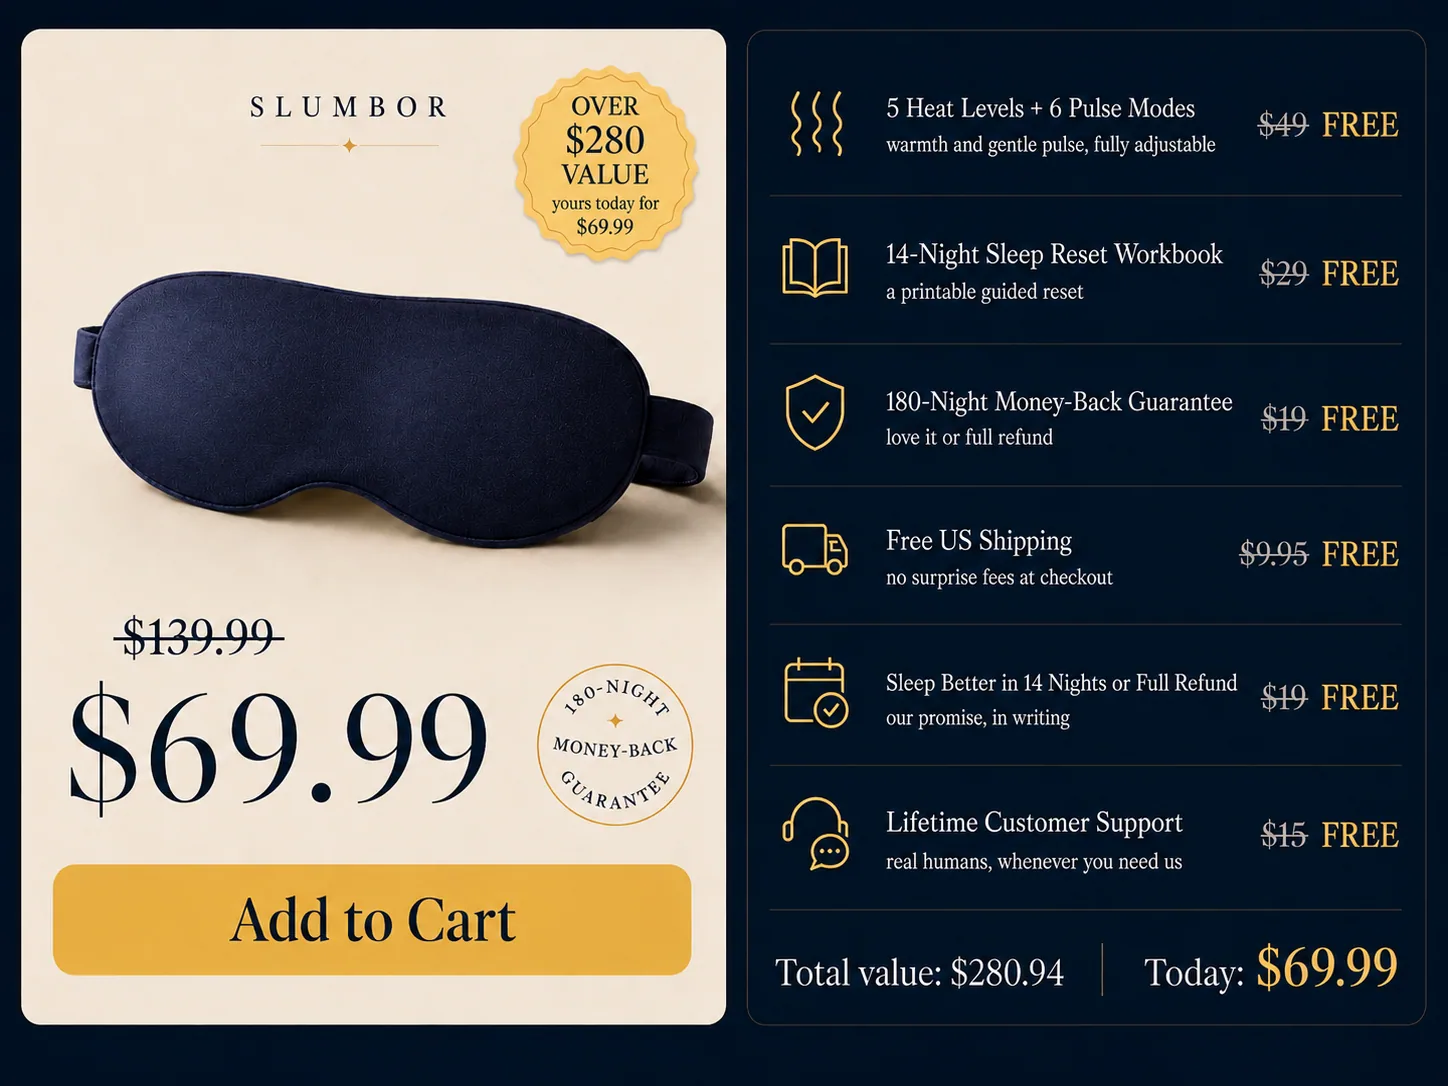
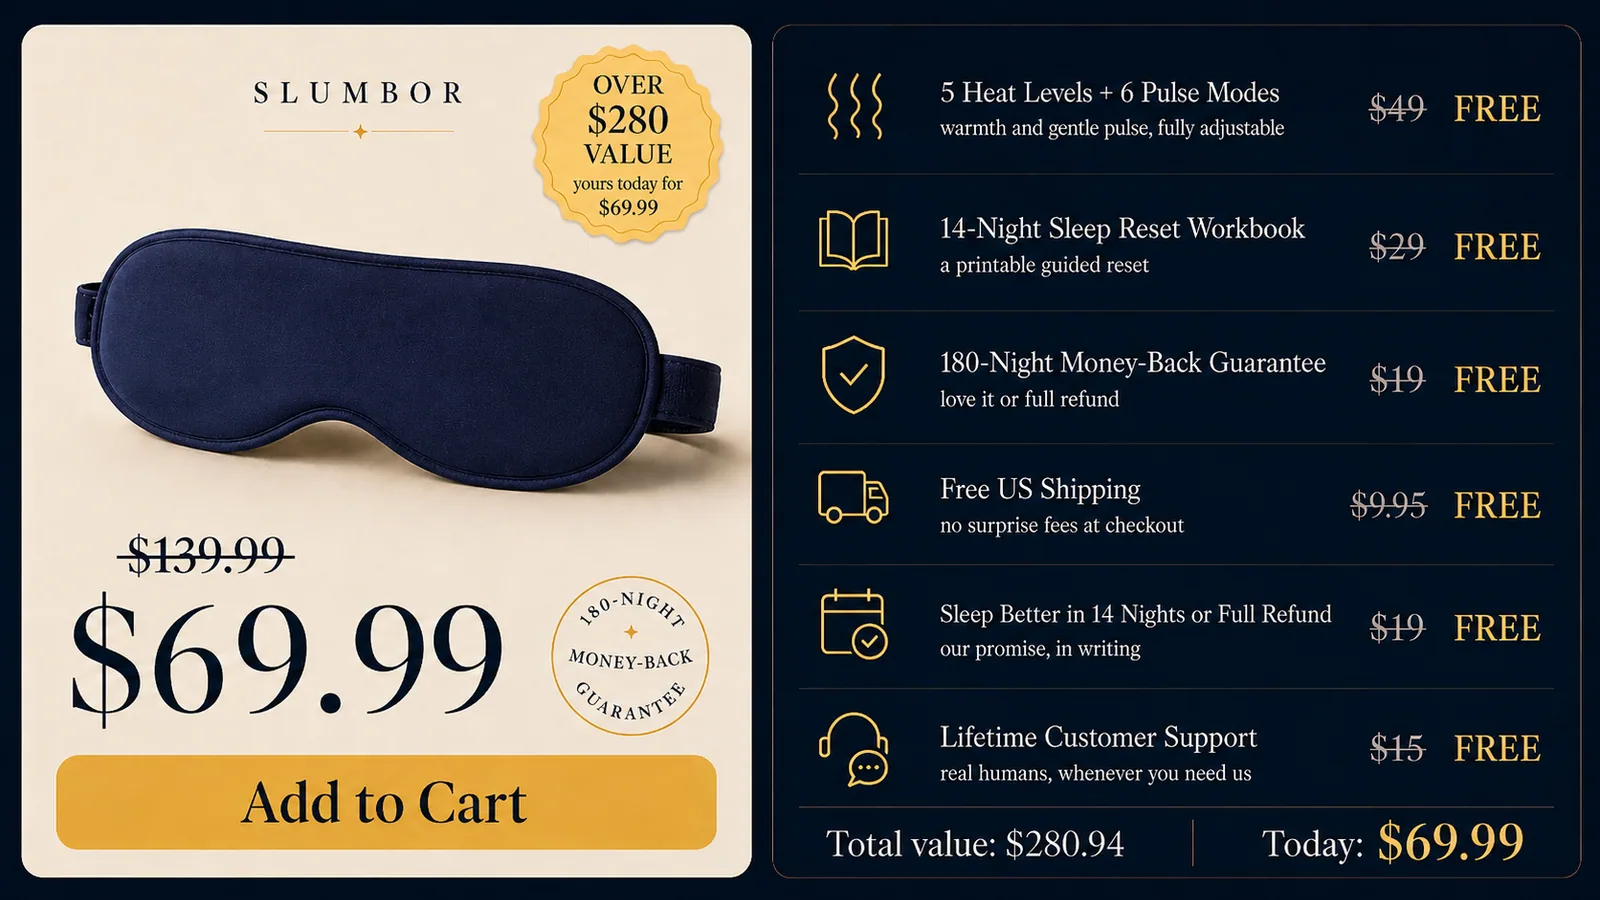
Special offer: replace what-you-get image (now 16:9)

diff --git a/src/components/product/special-offer.tsx b/src/components/product/special-offer.tsx
@@ -28,8 +28,8 @@ export default function SpecialOffer() {
             <Image
               src="/products/what-you-get.webp"
               alt="Everything you get with SleepWave Pro: the mask, the 14-Night Sleep Reset Workbook, free shipping, and the guarantee"
-              width={1448}
-              height={1086}
+              width={1600}
+              height={900}
               className="w-full h-auto object-cover"
             />
           </div>